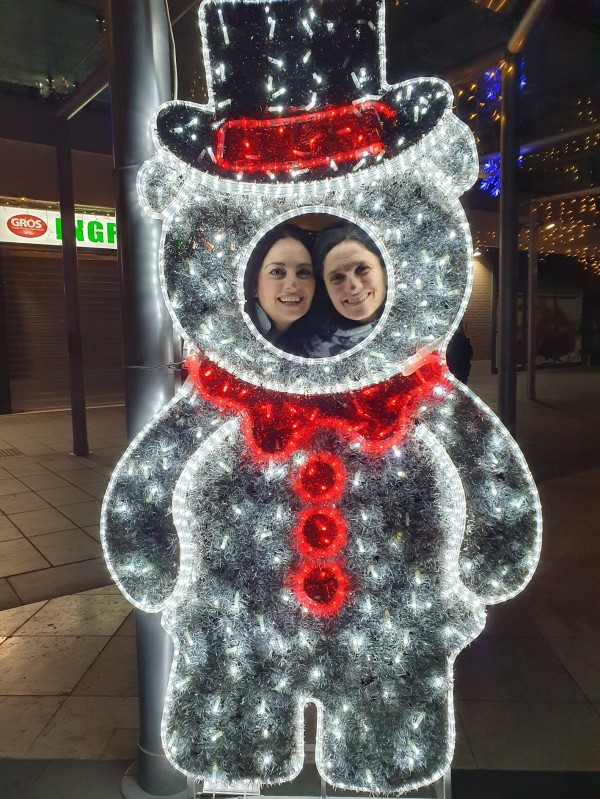
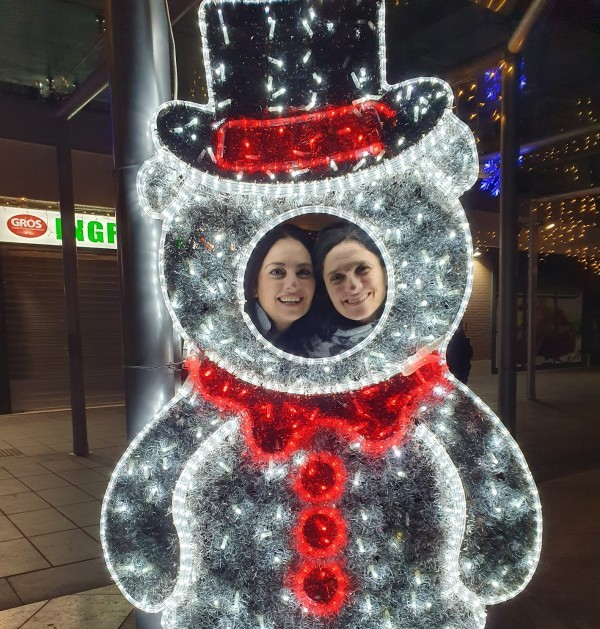
Immagini ottimizzate

diff --git a/src/App.js b/src/App.js
@@ -31,7 +31,7 @@ function App() {
 
   return (
     <main className='h-dvh w-screen flex flex-col charm-regular'>
-      <h1 className='text-center font-bold text-3xl md:py-2 md:text-5xl w-full bg-center bg-cover' 
+      <h1 className='text-center font-bold text-2xl md:py-2 md:text-5xl w-full bg-center bg-cover' 
       style={{ backgroundImage: `url(${bgUrl}`}}>
       Calendario dell'Avvento degli Amichi</h1>
     <div className="h-full w-full p-2 grid grid-cols-4 md:grid-cols-6 gap-2">
